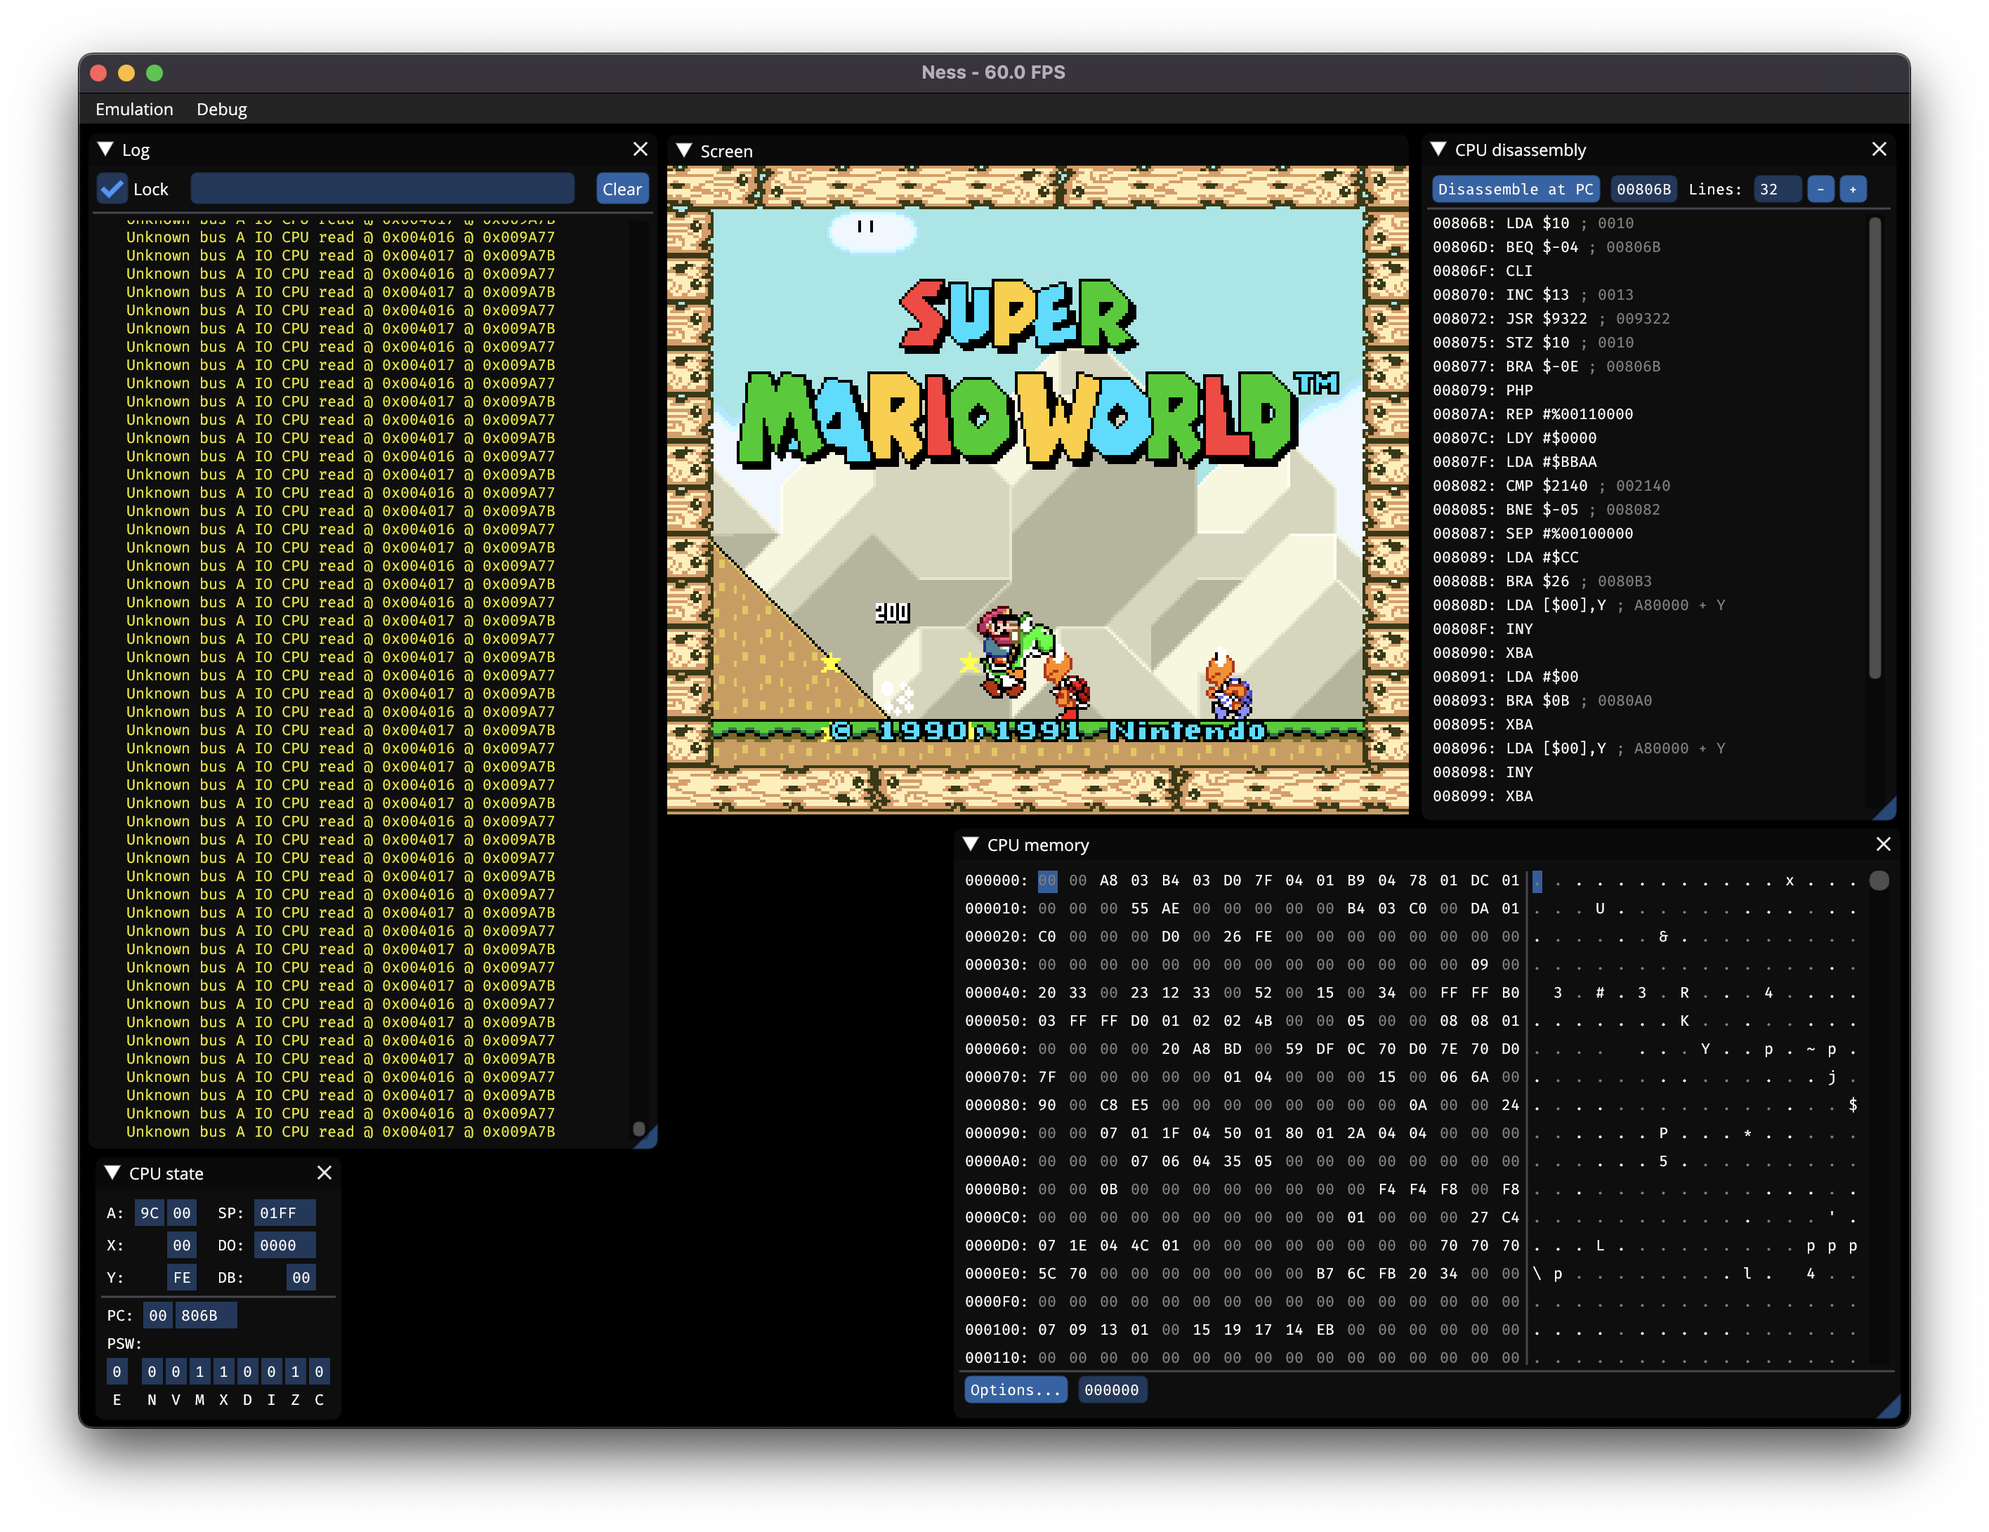
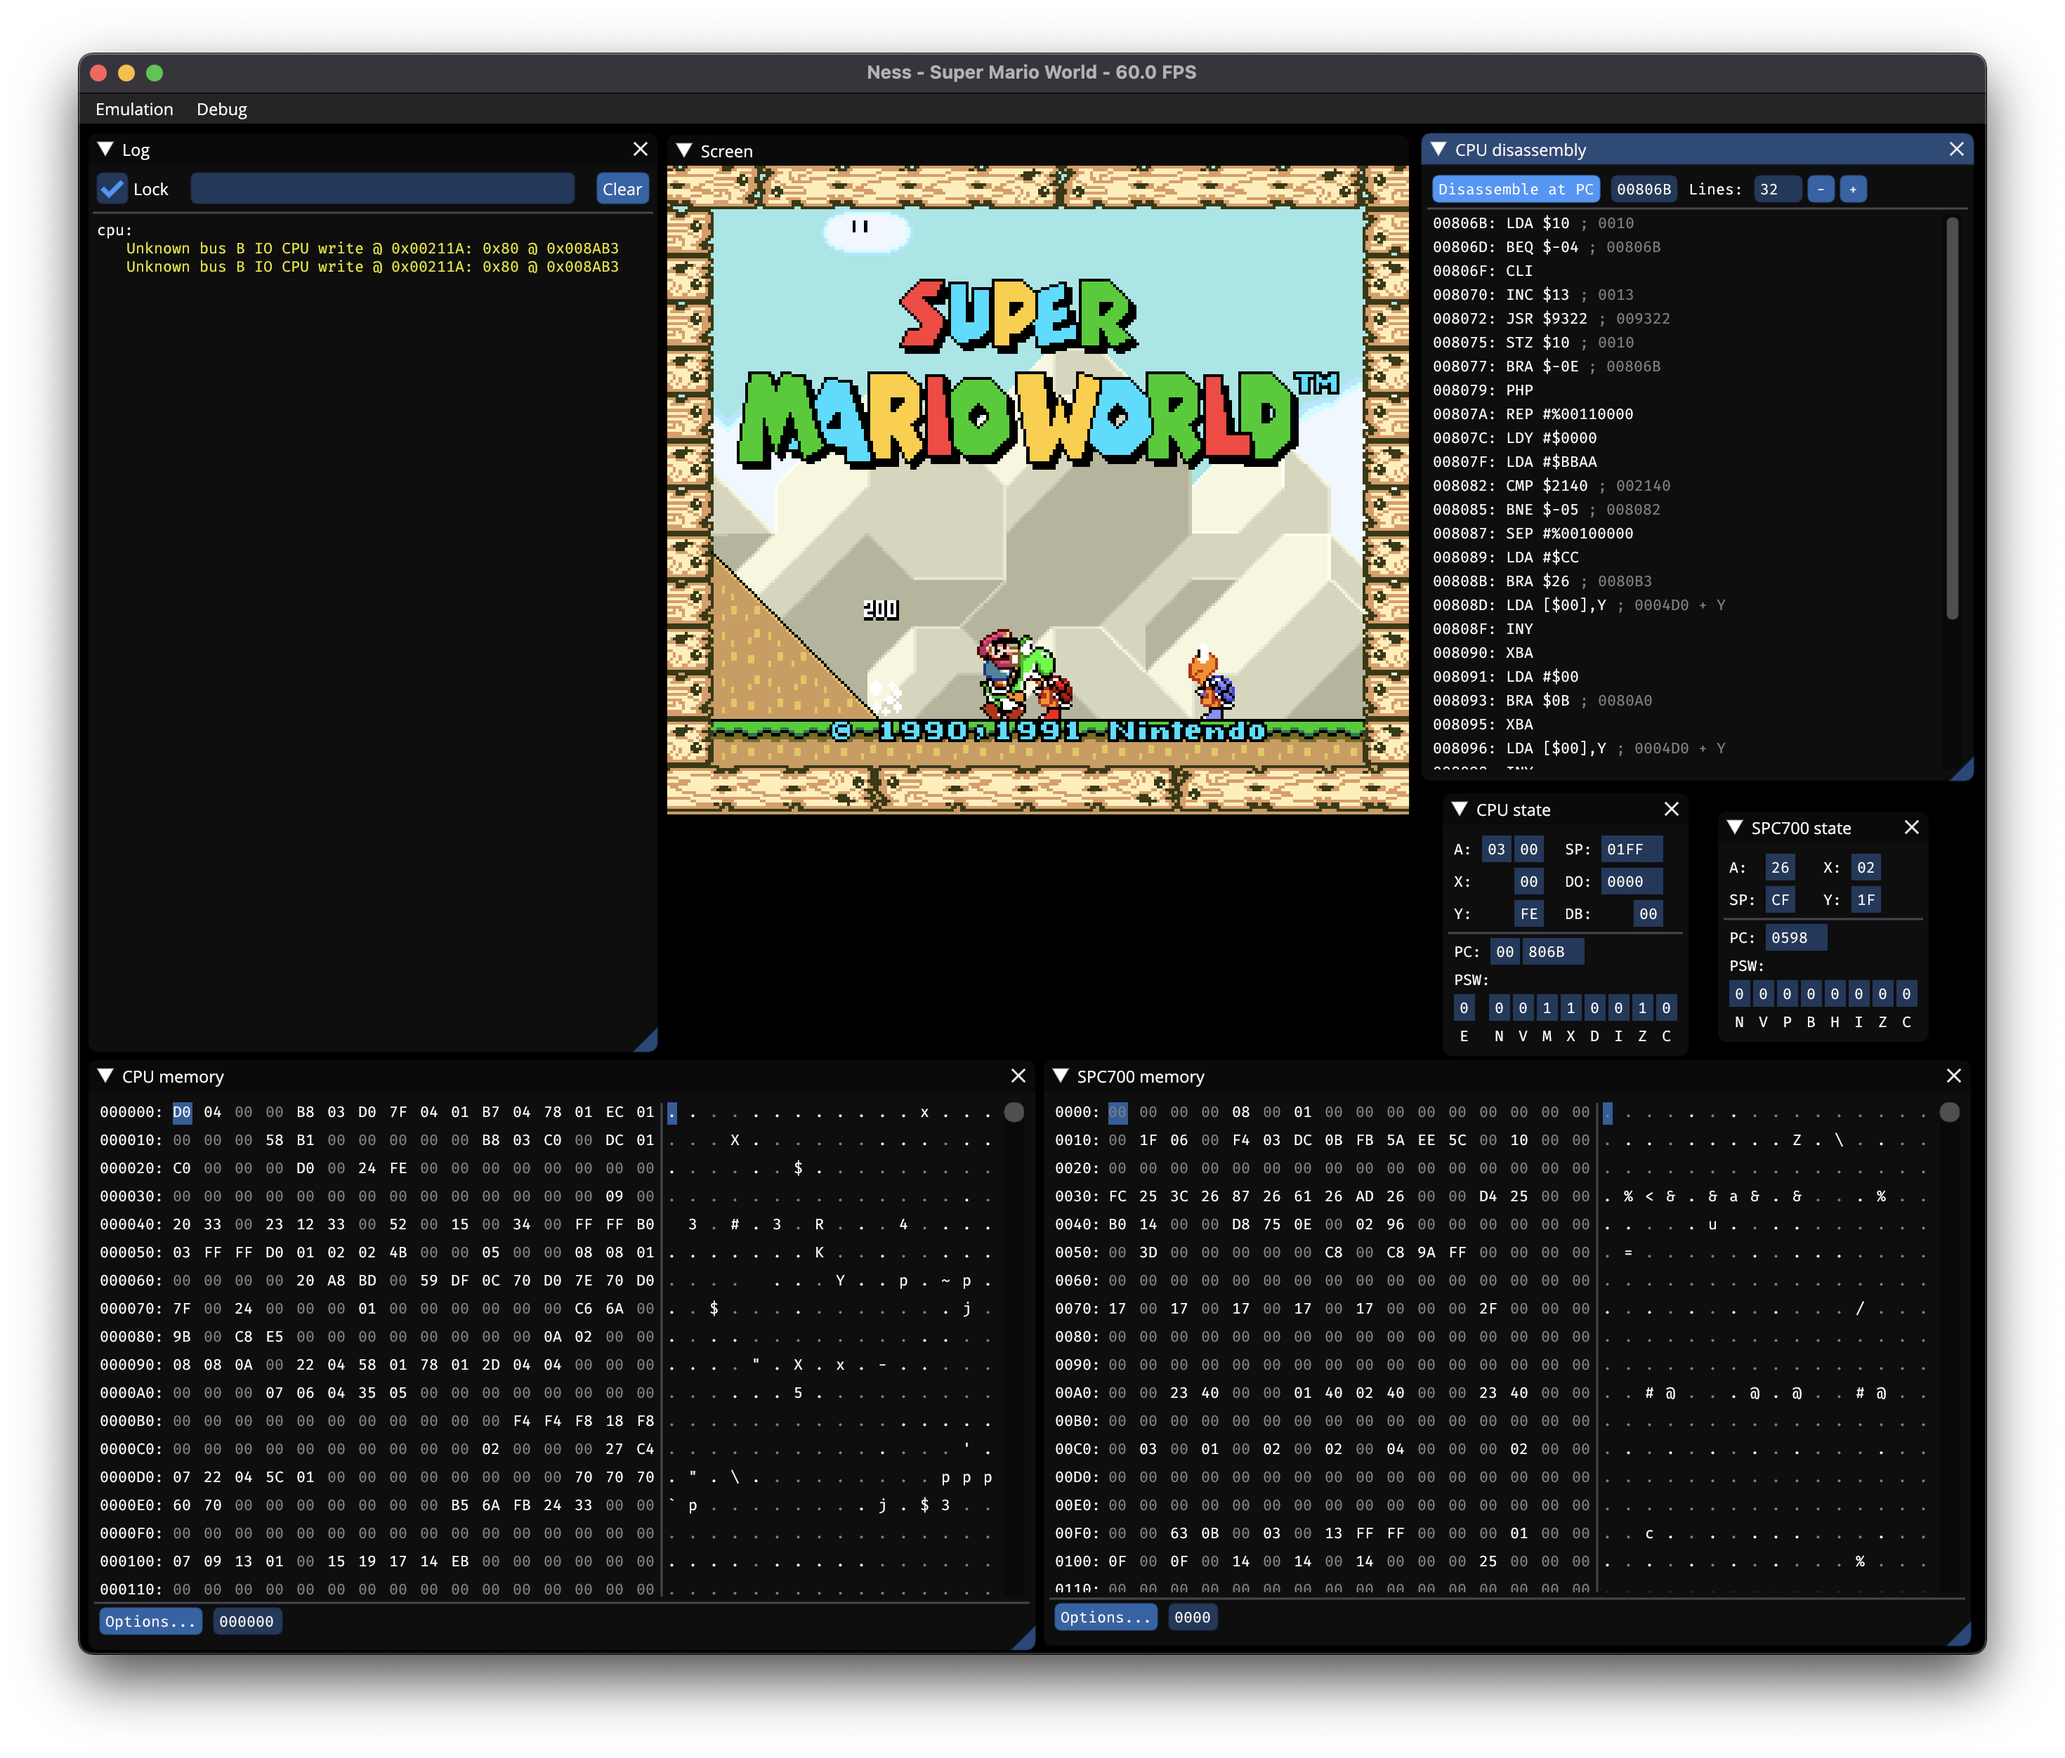
Add basic SPC700 debugging tools

Changed region(s): [[0.0311, 0.0312, 0.9633, 0.9661]]

diff --git a/frontend/desktop/src/debug_views/spc_state.rs b/frontend/desktop/src/debug_views/spc_state.rs
@@ -1,0 +1,123 @@
+use super::{
+    common::regs::{bitfield, regs, BitfieldCommand, MaxWidth, RegCommand, RegValue},
+    FrameDataSlot, View,
+};
+use crate::ui::window::Window;
+use imgui::StyleVar;
+use ness_core::{apu::spc700::regs::Psw, emu::Emu};
+
+#[derive(Clone, Debug)]
+pub struct RegValues {
+    pub a: u8,
+    pub x: u8,
+    pub y: u8,
+    pub sp: u8,
+    pub pc: u16,
+    pub psw: Psw,
+}
+
+pub struct SpcState {
+    reg_values: Option<RegValues>,
+}
+
+impl View for SpcState {
+    const NAME: &'static str = "SPC700 state";
+
+    type FrameData = RegValues;
+    type EmuState = ();
+
+    fn new(_window: &mut Window) -> Self {
+        SpcState { reg_values: None }
+    }
+
+    fn destroy(self, _window: &mut Window) {}
+
+    fn emu_state(&self) -> Self::EmuState {}
+
+    fn prepare_frame_data<'a, S: FrameDataSlot<'a, Self::FrameData>>(
+        _emu_state: &Self::EmuState,
+        emu: &mut Emu,
+        frame_data: S,
+    ) {
+        frame_data.insert(RegValues {
+            a: emu.apu.spc700.regs.a,
+            x: emu.apu.spc700.regs.x,
+            y: emu.apu.spc700.regs.y,
+            sp: emu.apu.spc700.regs.sp,
+            pc: emu.apu.spc700.regs.pc,
+            psw: emu.apu.spc700.regs.psw(),
+        });
+    }
+
+    fn update_from_frame_data(&mut self, frame_data: &Self::FrameData, _window: &mut Window) {
+        self.reg_values = Some(frame_data.clone());
+    }
+
+    fn customize_window<'a, T: AsRef<str>>(
+        &mut self,
+        _ui: &imgui::Ui,
+        window: imgui::Window<'a, T>,
+    ) -> imgui::Window<'a, T> {
+        window.always_auto_resize(true)
+    }
+
+    fn render(
+        &mut self,
+        ui: &imgui::Ui,
+        window: &mut Window,
+        _emu_running: bool,
+    ) -> Option<Self::EmuState> {
+        if let Some(reg_values) = self.reg_values.as_mut() {
+            let _mono_font = ui.push_font(window.mono_font);
+            let _frame_rounding = ui.push_style_var(StyleVar::FrameRounding(0.0));
+            let _item_spacing = ui.push_style_var(StyleVar::ItemSpacing([
+                0.0,
+                ui.clone_style().item_spacing[1],
+            ]));
+
+            ui.columns(2, "regs", false);
+
+            regs(
+                ui,
+                MaxWidth::Reg8,
+                2.0,
+                [
+                    RegCommand::Reg("A ", RegValue::Reg8(reg_values.a)),
+                    RegCommand::Reg("SP", RegValue::Reg8(reg_values.sp)),
+                    RegCommand::Callback(|ui| ui.next_column()),
+                    RegCommand::Reg("X", RegValue::Reg8(reg_values.x)),
+                    RegCommand::Reg("Y", RegValue::Reg8(reg_values.y)),
+                ],
+            );
+
+            ui.columns(1, "", false);
+            ui.separator();
+
+            regs(
+                ui,
+                MaxWidth::Reg16,
+                2.0,
+                [RegCommand::Reg("PC", RegValue::Reg16(reg_values.pc))],
+            );
+
+            ui.text("PSW: ");
+            bitfield(
+                ui,
+                "PSW",
+                2.0,
+                reg_values.psw.0 as usize,
+                &[
+                    BitfieldCommand::Field("C", 1),
+                    BitfieldCommand::Field("Z", 1),
+                    BitfieldCommand::Field("I", 1),
+                    BitfieldCommand::Field("H", 1),
+                    BitfieldCommand::Field("B", 1),
+                    BitfieldCommand::Field("P", 1),
+                    BitfieldCommand::Field("V", 1),
+                    BitfieldCommand::Field("N", 1),
+                ],
+            );
+        }
+        None
+    }
+}

diff --git a/frontend/desktop/src/debug_views/spc_memory.rs b/frontend/desktop/src/debug_views/spc_memory.rs
@@ -1,0 +1,115 @@
+use super::{
+    common::memory::{MemoryEditor, RangeInclusive},
+    FrameDataSlot, View,
+};
+use crate::ui::window::Window;
+use ness_core::{apu::spc700::bus, emu::Emu};
+
+pub struct SpcMemory {
+    editor: MemoryEditor,
+    last_visible_addrs: RangeInclusive<u64>,
+    mem_contents: MemContents,
+}
+
+#[derive(Clone)]
+pub struct EmuState {
+    visible_addrs: RangeInclusive<u64>,
+}
+
+#[derive(Clone)]
+pub struct MemContents {
+    visible_addrs: RangeInclusive<u64>,
+    data: Vec<u8>,
+}
+
+impl View for SpcMemory {
+    const NAME: &'static str = "SPC700 memory";
+
+    type FrameData = MemContents;
+    type EmuState = EmuState;
+
+    fn new(_window: &mut Window) -> Self {
+        SpcMemory {
+            editor: MemoryEditor::new()
+                .show_range(false)
+                .addr_range((0, 0xFFFF).into()),
+            last_visible_addrs: (0, 0).into(),
+            mem_contents: MemContents {
+                visible_addrs: (0, 0).into(),
+                data: vec![0],
+            },
+        }
+    }
+
+    fn destroy(self, _window: &mut Window) {}
+
+    fn emu_state(&self) -> Self::EmuState {
+        EmuState {
+            visible_addrs: self.last_visible_addrs,
+        }
+    }
+
+    fn prepare_frame_data<'a, S: FrameDataSlot<'a, Self::FrameData>>(
+        emu_state: &Self::EmuState,
+        emu: &mut Emu,
+        frame_data: S,
+    ) {
+        let frame_data = frame_data.get_or_insert_with(|| MemContents {
+            visible_addrs: RangeInclusive { start: 0, end: 0 },
+            data: Vec::new(),
+        });
+        frame_data.data.clear();
+        frame_data
+            .data
+            .reserve((emu_state.visible_addrs.end - emu_state.visible_addrs.start + 1) as usize);
+        for addr in emu_state.visible_addrs {
+            frame_data
+                .data
+                .push(bus::read::<bus::DebugAccess>(&mut emu.apu, addr as u16));
+        }
+        frame_data.visible_addrs = emu_state.visible_addrs;
+    }
+
+    fn update_from_frame_data(&mut self, frame_data: &Self::FrameData, _window: &mut Window) {
+        self.mem_contents.data.clear();
+        self.mem_contents.data.extend_from_slice(&frame_data.data);
+        self.mem_contents.visible_addrs = frame_data.visible_addrs;
+    }
+
+    fn customize_window<'a, T: AsRef<str>>(
+        &mut self,
+        ui: &imgui::Ui,
+        window: imgui::Window<'a, T>,
+    ) -> imgui::Window<'a, T> {
+        let width = self.editor.window_width(ui);
+        window.size_constraints([width, 0.0], [width, f32::INFINITY])
+    }
+
+    fn render(
+        &mut self,
+        ui: &imgui::Ui,
+        window: &mut Window,
+        _emu_running: bool,
+    ) -> Option<Self::EmuState> {
+        let _mono_font = ui.push_font(window.mono_font);
+
+        self.editor.handle_options_right_click(ui);
+        self.editor.draw_callbacks(ui, None, &mut (), |_, addr| {
+            if self.mem_contents.visible_addrs.contains(&addr) {
+                Some(
+                    self.mem_contents.data[(addr - self.mem_contents.visible_addrs.start) as usize],
+                )
+            } else {
+                None
+            }
+        });
+
+        let visible_addrs = self.editor.visible_addrs(1);
+        if visible_addrs != self.last_visible_addrs {
+            self.last_visible_addrs = visible_addrs;
+            Some(EmuState { visible_addrs })
+        } else {
+            None
+        }
+    }
+}

diff --git a/frontend/desktop/src/debug_views.rs b/frontend/desktop/src/debug_views.rs
@@ -6,6 +6,10 @@ mod cpu_memory;
 pub use cpu_memory::CpuMemory;
 mod cpu_disasm;
 pub use cpu_disasm::CpuDisasm;
+mod spc_state;
+pub use spc_state::SpcState;
+mod spc_memory;
+pub use spc_memory::SpcMemory;
 
 use super::ui::window::Window;
 use fxhash::FxHashMap;
@@ -398,6 +402,9 @@ macro_rules! declare_structs {
 
 declare_structs!(
     singleton cpu_state, CpuState, ToggleCpuStateUpdates, UpdateCpuStateEmuState;
+    singleton spc_state, SpcState, ToggleSpcStateUpdates, UpdateSpcStateEmuState;
     instanceable cpu_memory, CpuMemory, ToggleCpuMemoryUpdates, UpdateCpuMemoryEmuState;
     instanceable cpu_disasm, CpuDisasm, ToggleCpuDisasmUpdates, UpdateCpuDisasmEmuState;
+    instanceable spc_memory, SpcMemory, ToggleSpcMemoryUpdates, UpdateSpcMemoryEmuState;
+    // instanceable spc_disasm, SpcDisasm, ToggleSpcDisasmUpdates, UpdateSpcDisasmEmuState;
 );

diff --git a/core/src/cpu/bus/access.rs b/core/src/cpu/bus/access.rs
@@ -49,6 +49,9 @@ fn read_a_io<A: AccessType>(emu: &mut Emu, addr: u32) -> u8 {
     }
 
     match addr & 0x3FF {
+        // TODO: Manual controller reading
+        0x016 => return emu.cpu.mdr & 0xFC,
+        0x017 => return 0x1C | (emu.cpu.mdr & 0xE0),
         0x210 => return emu.ppu.read_nmi_flag::<A>().0 | (emu.cpu.mdr & 0x70),
         0x211 => {
             return emu

diff --git a/core/src/apu/spc700/interpreter/common.rs b/core/src/apu/spc700/interpreter/common.rs
@@ -119,7 +119,7 @@ pub fn consume_imm_16(apu: &mut Apu) -> u16 {
 
 pub fn push_8(apu: &mut Apu, value: u8) {
     let sp = apu.spc700.regs.sp;
-    write_8(apu, apu.spc700.regs.sp as u16 | 0x100, value);
+    write_8(apu, sp as u16 | 0x100, value);
     apu.spc700.regs.sp = sp.wrapping_sub(1);
 }
 
